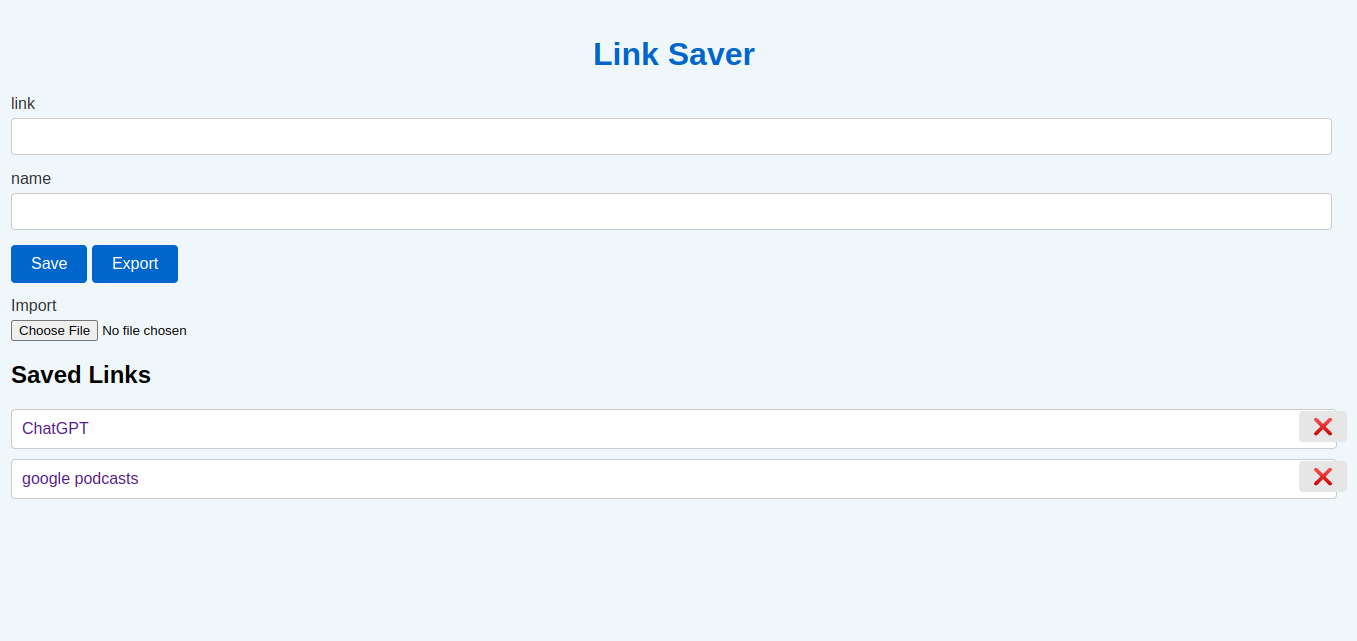
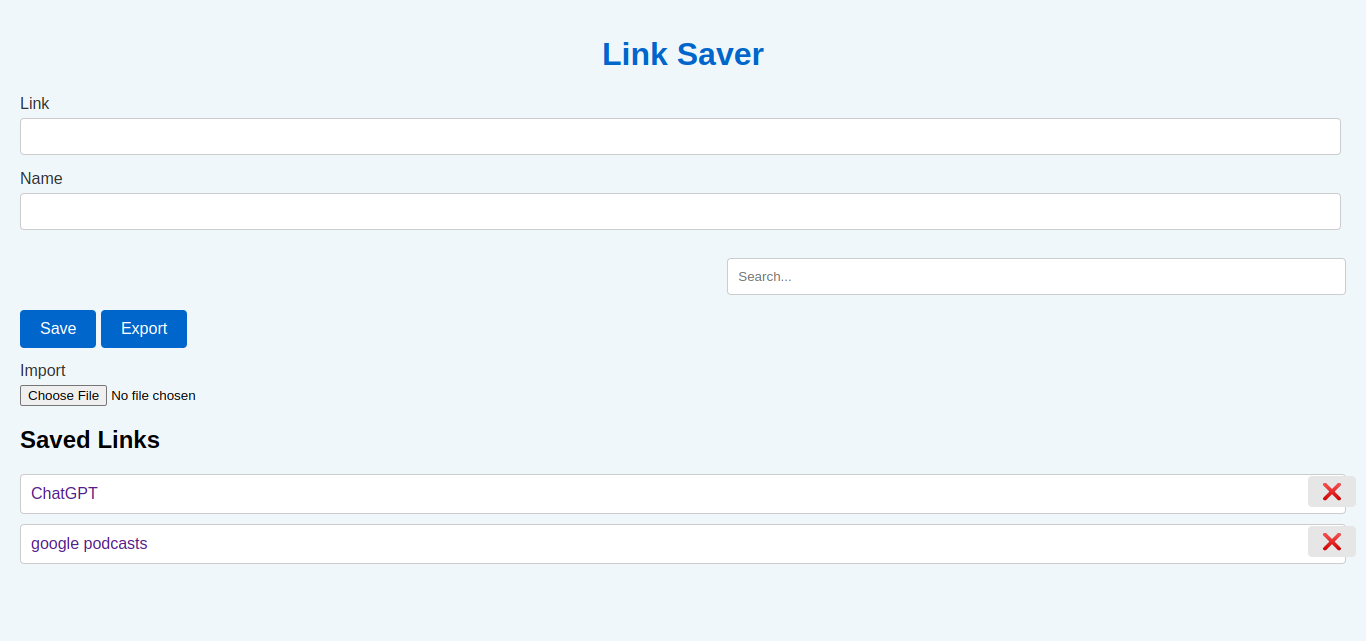
add search

diff --git a/script.js b/script.js
@@ -107,6 +107,7 @@ function applySettings() {
     languageTranslations.importLabel;
   document.getElementById("linkLabel").textContent = languageTranslations.link;
   document.getElementById("nameLabel").textContent = languageTranslations.name;
+  document.getElementById("searchInput").placeholder = languageTranslations.searchPlaceholder;
 
   // Apply the style (LTR or RTL)
   document.body.dir = style === "rtl" ? "rtl" : "ltr";
@@ -123,6 +124,7 @@ function applySettings() {
         body {
         direction: ltr;
         }
+        
         #linksList li button {
         right: 0;
         margin-right: 10px;
@@ -138,10 +140,15 @@ function applySettings() {
         body {
         direction: rtl;
         }
+
         #linksList li button {
         left: 0;
         margin-left: 10px;
         right: unset;
+        }
+
+        #searchContainer {
+          justify-items: left;
         }
   `;
     const styleElement = document.createElement("style");
@@ -151,5 +158,24 @@ function applySettings() {
 
   displayLinks();
 }
+
+function searchLinks() {
+  const searchInput = document.getElementById("searchInput").value.toLowerCase();
+  const savedLinks = JSON.parse(localStorage.getItem("savedLinks")) || [];
+  const filteredLinks = savedLinks.filter((link) => {
+    const name = link.name.toLowerCase();
+    const url = link.link.toLowerCase();
+    return name.includes(searchInput) || url.includes(searchInput);
+  });
+
+  const linksList = document.getElementById("linksList");
+  linksList.innerHTML = filteredLinks
+    .map(
+      ({ name, link }, index) =>
+        `<li><a href="${link}" target="_blank">${name}</a><button id="delete" onclick="deleteLink(${index})">❌</button></li>`
+    )
+    .join("");
+}
+
 
 loadSettings();

diff --git a/index.html b/index.html
@@ -15,8 +15,12 @@
     </div>
 
     <div>
-      <label for="nameInput" id="nameLabel">name:</label>
+      <label for="nameInput" id="nameLabel">name</label>
       <input type="text" id="nameInput" />
+    </div>
+
+    <div id="searchContainer">
+      <input type="text" id="searchInput" oninput="searchLinks()" placeholder="search"/>
     </div>
 
     <div>

diff --git a/style.css b/style.css
@@ -29,7 +29,18 @@ input[type="text"] {
   border: 1px solid #ccc;
   border-radius: 4px;
 }
-
+#searchContainer {
+	display: grid;
+	justify-items: right;
+  margin-top: 13px;
+}
+#searchInput {
+	width: 45%;
+  margin-left: 6px;
+}
+#searchLabel {
+	margin-left: 5px;
+}
 button {
   padding: 10px 20px;
   font-size: 16px;

diff --git a/README.md b/README.md
@@ -37,7 +37,6 @@ To make changes, open the `settings.json` file and update the values according t
 4. To view your saved links, navigate to the "Saved Links" section.
 5. Click on a link's name to open it in a new tab.
 6. To remove a saved link, click the "❌" button next to it.
-7. Simply search for links the "ctrl + f" shortcut in your browser to quickly locate it.
 
 Enjoy effortless organization and quick access to your saved links with Link Saver!
 
